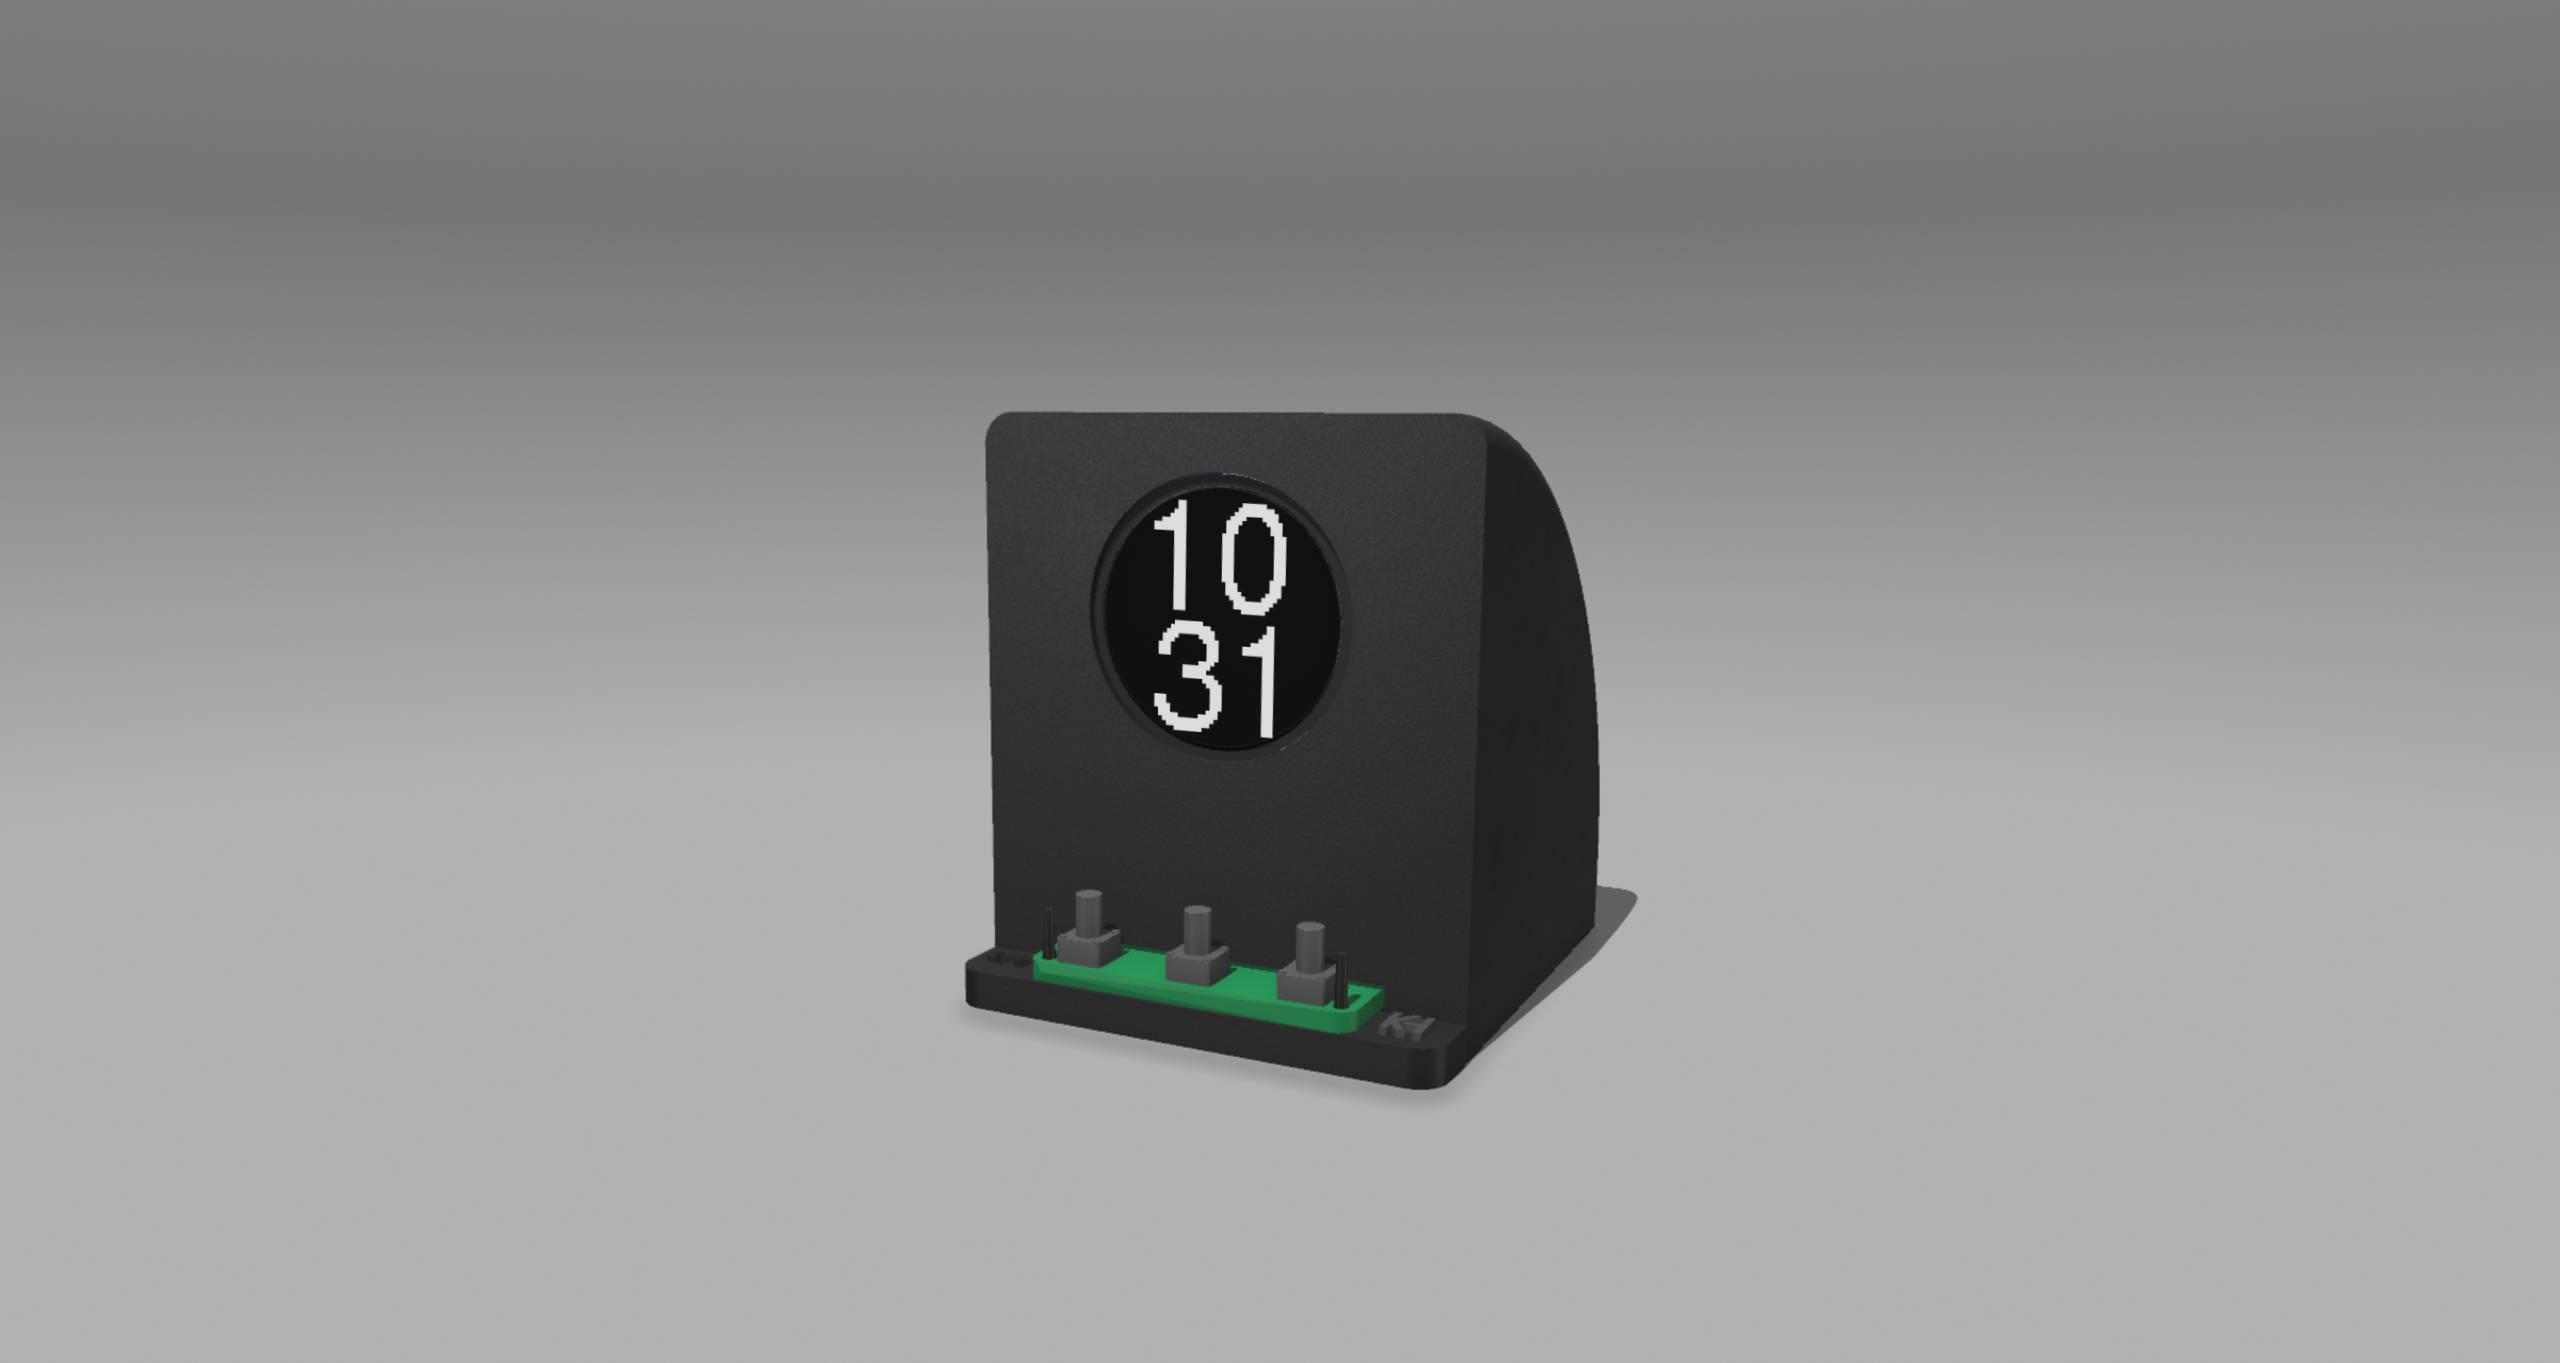
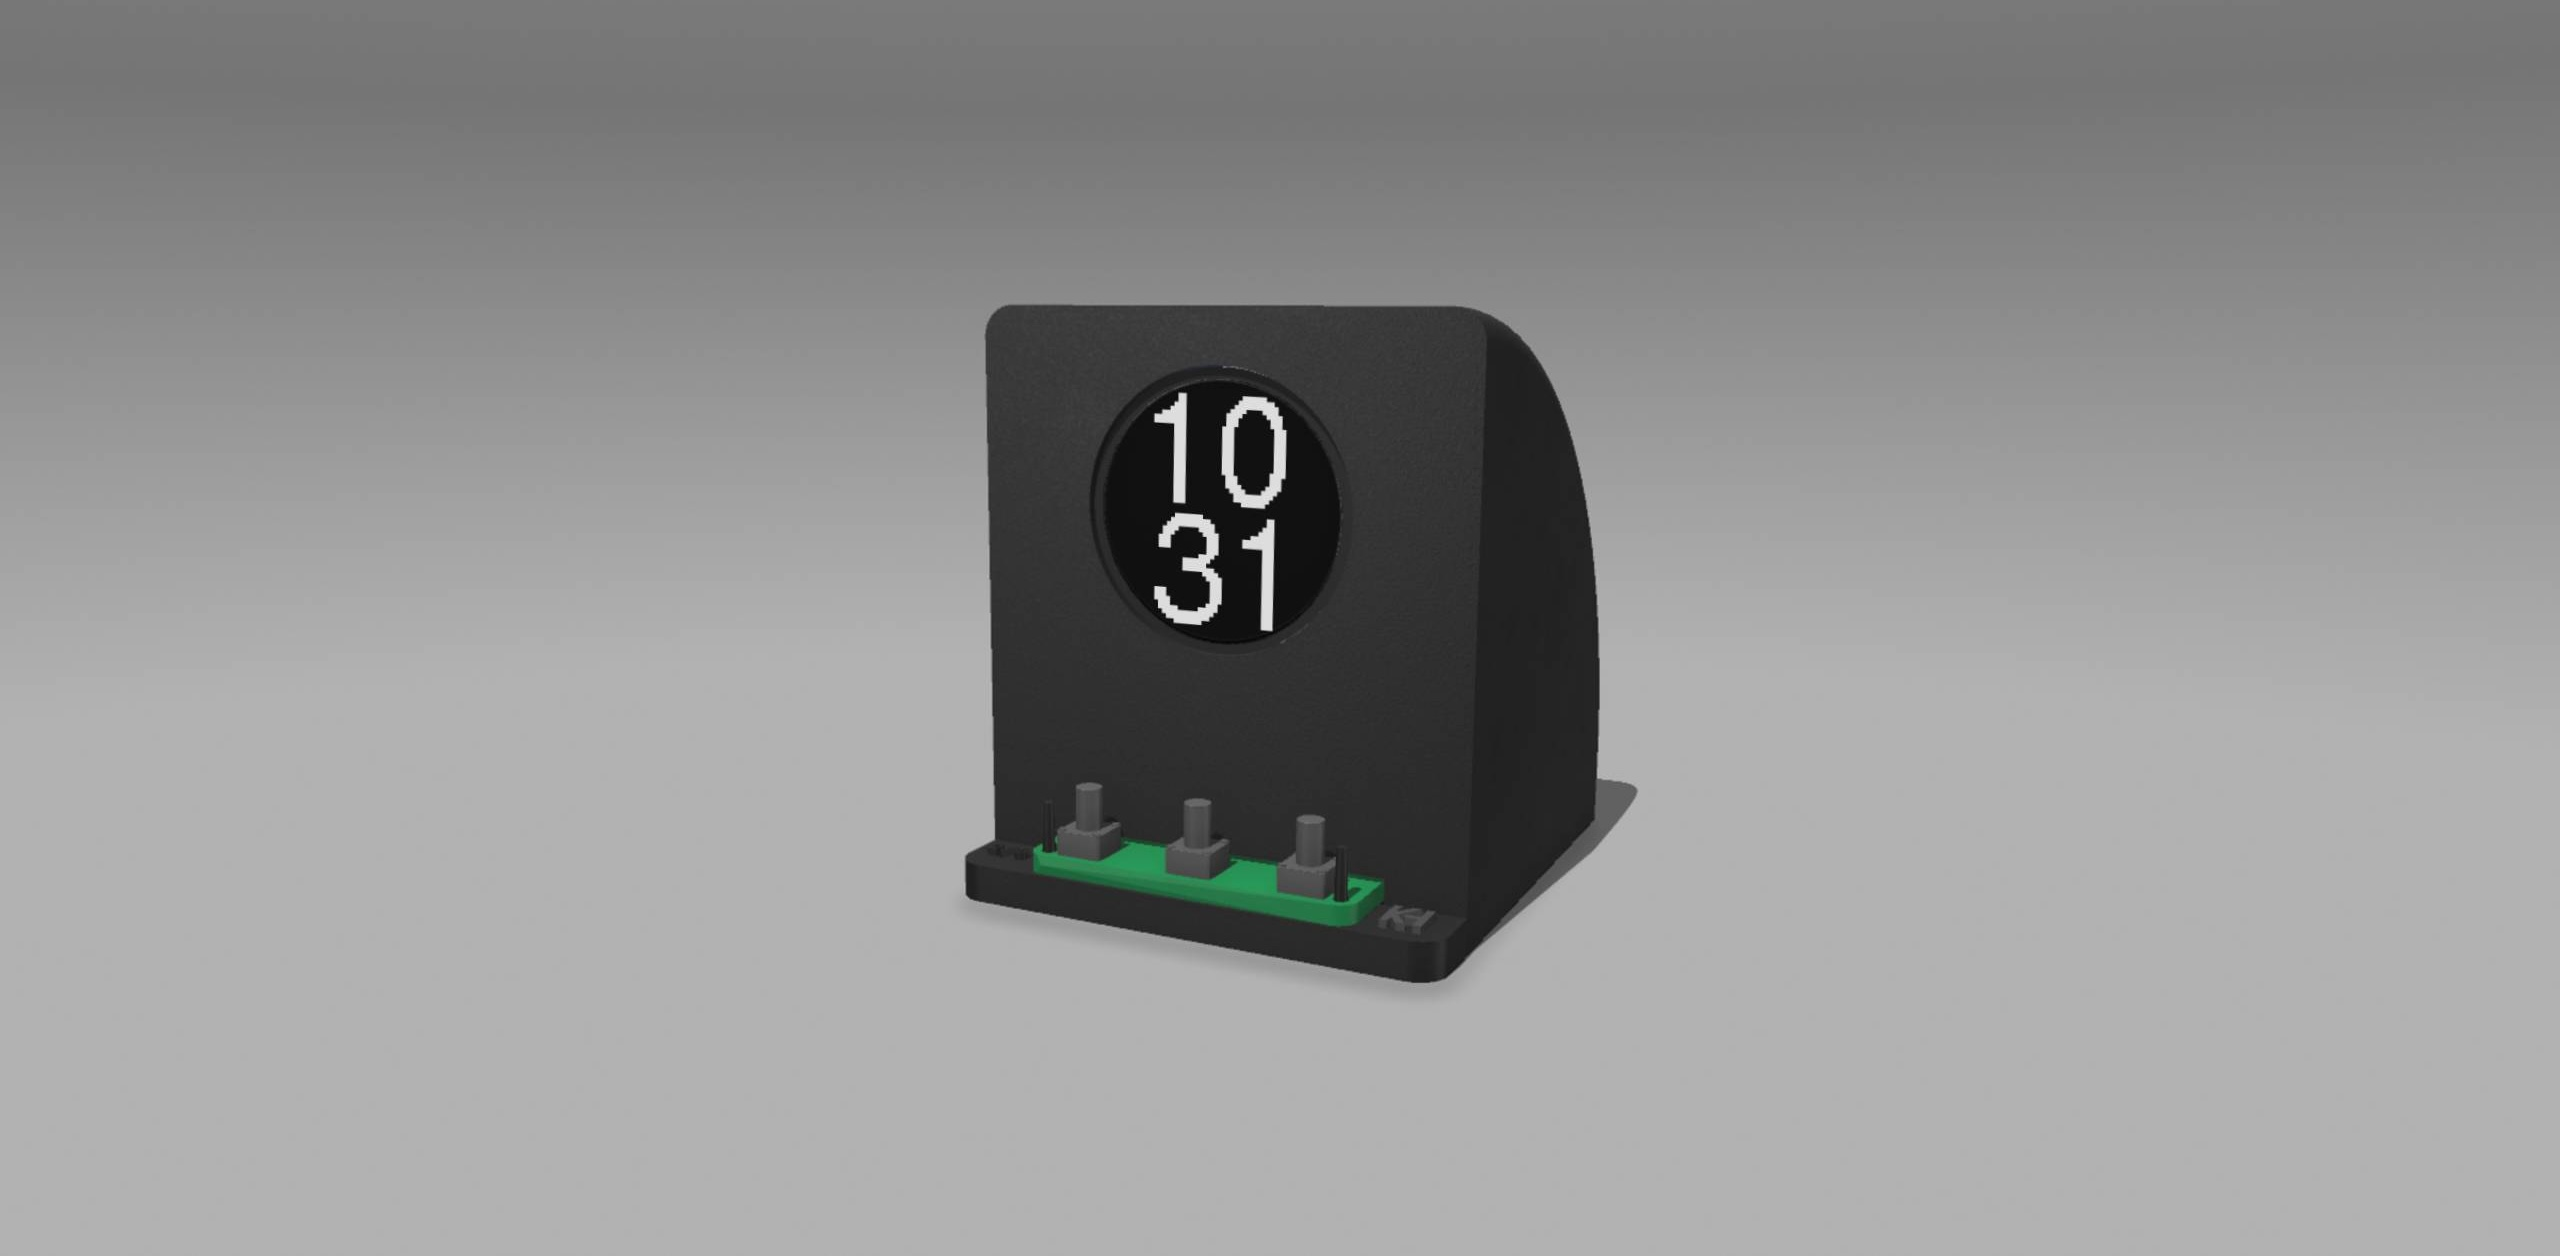
fixed positioning stuff for well round

Changed region(s): [[0.375, 0.2174, 0.625, 0.5589], [0.375, 0.621, 0.6562, 0.8073]]

diff --git a/wellround.html b/wellround.html
@@ -45,7 +45,7 @@
       left: 0;
       right: 0;
       bottom: 0;
-      background-image: linear-gradient(rgba(0, 0, 0, 0.7), rgba(0, 0, 0, 0.7)), url('WellRound.jpg');
+      background-image: linear-gradient(rgba(0, 0, 0, 0.3), rgba(0, 0, 0, 0.4)), url('WellRound.jpg');
       background-size: cover;
       background-position: center;
 
@@ -60,7 +60,7 @@
     }
 
     .hero-title {
-      margin-top: 300px;
+      margin-top: 420px;
       font-size: 72px;
       font-weight: 700;
       margin-bottom: 20px;
